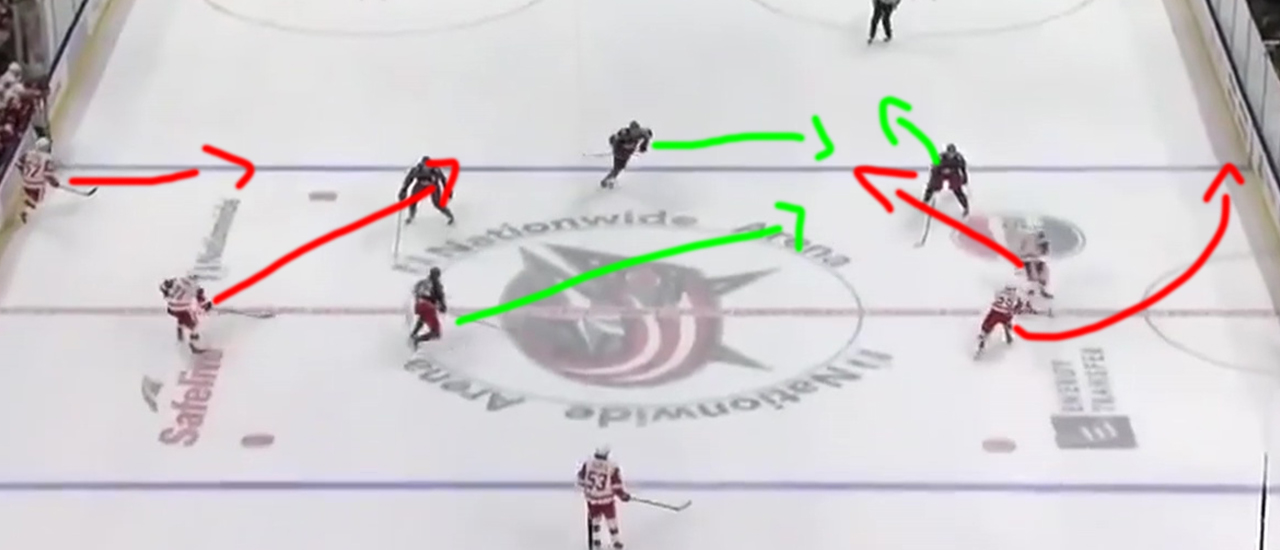
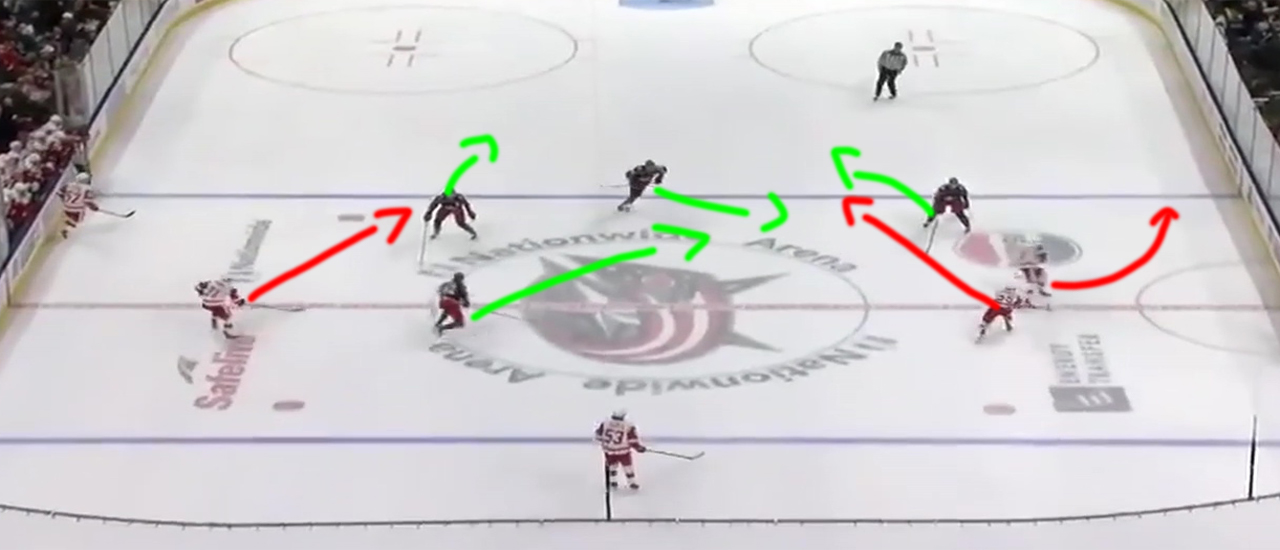
added redwings break out

diff --git a/content/posts/red-wings-break-out-on-the-powerplay.html b/content/posts/red-wings-break-out-on-the-powerplay.html
@@ -2,11 +2,18 @@
 title: "Red Wings Break Out on the PowerPlay"
 date: 2023-10-19T16:19:55-07:00
 topic: "Power Play"
-summary: "This is a summary."
+summary: "Converting on the power play is a game changer and thus being able to exploit that man advantage is a critical
+part of the game that can lead to easy goals."
 subtopic: ["power play", "passing", "zone-entry"]
 draft: true
 type: "post"
 ---
+<p>
+    The power play is one of hockey's most crucial sequences, providing a team with a man advantage and the opportunity
+    to exert intense pressure on the opposition. Ideally, ending up in a goal. In this article, we'll analyze a
+    sequence featuring the Detroit Red Wings on the power play against the Columbus Blue Jackets. This particular
+    sequence is an excellent example of how to exploit the man advantage during zone entry to create optimal space.
+</p>
 <div class="video-container">
     <iframe width="560" height="315" src="https://www.youtube.com/embed/KNtQG0AcXEg?si=SWgFCfXZVCACpUv7"
         title="YouTube video player" frameborder="0"
@@ -14,18 +21,91 @@ type: "post"
         allowfullscreen></iframe>
 </div>
 
+<p>
+    As seen in the accompanying video, the Red Wings executed a flawless zone entry that led to a power-play goal.
+    Utilizing their man advantage, they created space for Dylan Larkin, who ultimately finished off the play with a
+    goal. Let's break down how they accomplished this.
+</p>
+
+<p>
+    As Moritz Seider circles behind his own net to restart the play, he surveys the ice to assess his options. To his
+    left, he has Dylan Larkin streaking up the wing, closely marked by Alexander Texier. On his right, Alex DeBrincat is
+    unguarded and presents the obvious choice for a pass. Recognizing the situation, Seider makes the optimal decision
+    and sends the puck to a wide-open DeBrincat.
+</p>
+
+<p>
+    As this play unfolds, the other Red Wings players start to position themselves strategically. David Perron drifts to
+    the left side of the ice while Shayne Gostisbehere moves to the right. This calculated positioning aims to funnel
+    the defensive coverage of the Blue Jackets, forcing them to fall back and protect the center of the
+    ice. As a result, the Red Wings gain valuable space on the wings to maneuver.
+</p>
+
 <div class="image-container">
     <img src="/posts/red-wings-break-out-on-the-powerplay/setup.jpg" />
 </div>
+
+<p>
+    At this point, it's evident that the Blue Jackets' players have clustered more towards the center of the ice, giving
+    the Red Wings players extra space to operate. Gostisbehere continues his skate to the right, looping back toward the
+    Blue
+    Jackets' blue line offering a simple pass to DeBrincat. Simultaneously Larkin is skating towards the center of the
+    Blue Jackets zone. The choice on how to proceed is now on DeBrincat, who has a few options. He could drop the puck
+    to Gostisbehere allowing an easy set up in the zone. He could dump it into the far left corner of the zone allowing
+    Perron to recover the puck or he can use the extra space that he has and continue skating.
+</p>
+
+<p>
+    DeBrincat notices that he's drawing the attention of three of the BlueJackets defense. He has both Texier and Erik
+    Gudbranson that is skating towards him and Ivan Provorov who is already in front of him. By seeing this he makes the
+    decision to continue skating towards the zone and continue drawing the pressure of the three Blue Jackets.
+</p>
 
 <div class="image-container">
     <img src="/posts/red-wings-break-out-on-the-powerplay/before-entry.jpg" />
 </div>
 
+<p>
+    By drawing the attention of three Blue Jackets players, DeBrincat effectively opens up a clear lane through the
+    center of the ice. Larkin seizes this opportunity, driving into the open space and positioning himself to receive a
+    pass the pass.
+</p>
+
+<p>
+    This was a pivotal error on the part of the Blue Jackets, and especially Texier. By failing to either mark Larkin or
+    cover the center of the ice, Texier opened the door for the sequence that followed, which proved costly.
+</p>
+
+<p>
+    DeBrincat expertly delivers the puck ahead to Larkin, enabling him to outmaneuver two of the three defenders and
+    leaving Provorov as the last line of defense. Provorov's only viable option is to make an immediate dive to disrupt
+    the play, but he fails to realize this, leaving Larkin virtually unchallenged.
+</p>
+
 <div class="image-container">
     <img src="/posts/red-wings-break-out-on-the-powerplay/space.jpg" />
 </div>
 
+<p>
+    With space to work and momentum on his side, all Larkin needs to do is shield the puck with his body. He sildes
+    past Provorov and even draws a hooking penalty from Sean Kuraly, who makes a desperate attempt to halt his progress.
+    Now, Larkin finds himself in a one-on-one showdown with the goaltender.
+</p>
+
 <div class="image-container">
     <img src="/posts/red-wings-break-out-on-the-powerplay/puck-protection.jpg" />
 </div>
+
+<p>
+    Executing a swift side-to-side move, Larkin compels goaltender Spencer Martin to widen his stance. Seizing the
+    opportunity, he deftly slides the puck between Martin's legs, netting a textbook goal.
+</p>
+
+<p>
+    The above example really displays how important a good zone entry is. Going back to the mistake made by Texier. Even
+    if Texier properly covers Larkin, DeBrincat could easily drop the puck to Gostisbehere who had a free entry into the
+    zone. Gostisbehere would have then skated the puck in, where the Red Wings could then set up for the remaining power
+    play. Being able to accomplish that is considered a success on the power play. By being properly set up the team can
+    begin to pass around the puck, tire out the penality kill, and eventually take high danger shots on net that could
+    result in a goal.
+</p>

diff --git a/themes/blog-theme/assets/scss/common.scss b/themes/blog-theme/assets/scss/common.scss
@@ -108,13 +108,13 @@
             font-size: calc(1rem + 1vw);
     
             @media screen and (max-width: 699px) {
-                line-height: 2.5rem;
-                font-size: 2.5rem;
+                line-height: 1.5rem;
+                font-size: 1.5rem;
             }
     
             @media screen and (min-width: 700px) and (max-width: 999px) {
-                line-height: 3rem;
-                font-size: 3rem;
+                line-height: 2.5rem;
+                font-size: 2.5rem;
             }
     
             @media screen and (min-width: 1000px) {

diff --git a/themes/blog-theme/layouts/about/list.html b/themes/blog-theme/layouts/about/list.html
@@ -1,5 +1,5 @@
 {{define "main" }}
-    <div class="app__page">
+    <div class="app__page app__about">
         <h1>About</h1>
         <div class="app__about-content">
             {{ .Content }}

diff --git a/feature-flags.md b/feature-flags.md
@@ -2,3 +2,10 @@
 
 Feature flags are a software development technique that will enable us to turn new features on or off during runtime.
 
+---
+
+Benefits:
+ - Quick Rollbacks
+ - A/B Testing
+ - Continuous deployment
+ - Environment-Specific Configurations
